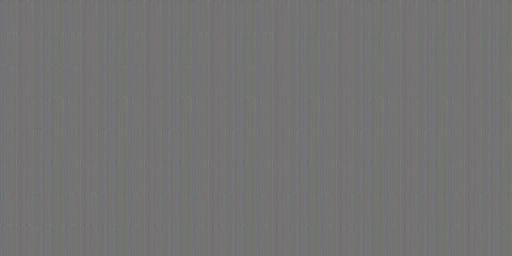
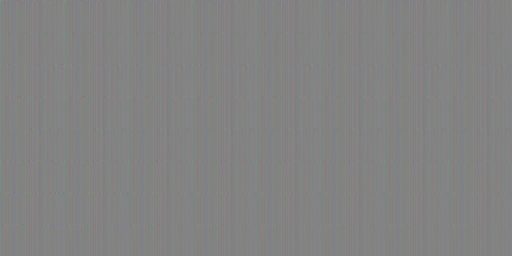
make forward test deterministic

diff --git a/src/forward.py b/src/forward.py
@@ -98,6 +98,8 @@ class CausalSelfAttention(nn.Module):
 # main
 def main():
     device = get_device()
+    torch.manual_seed(0)
+
     x = 2 * torch.rand((BS, IN_SEQ_LEN, N_EMBD), device=device) - 1  # [-1, 1]
     x_pil = to_image(x)
     if modal.is_local():
